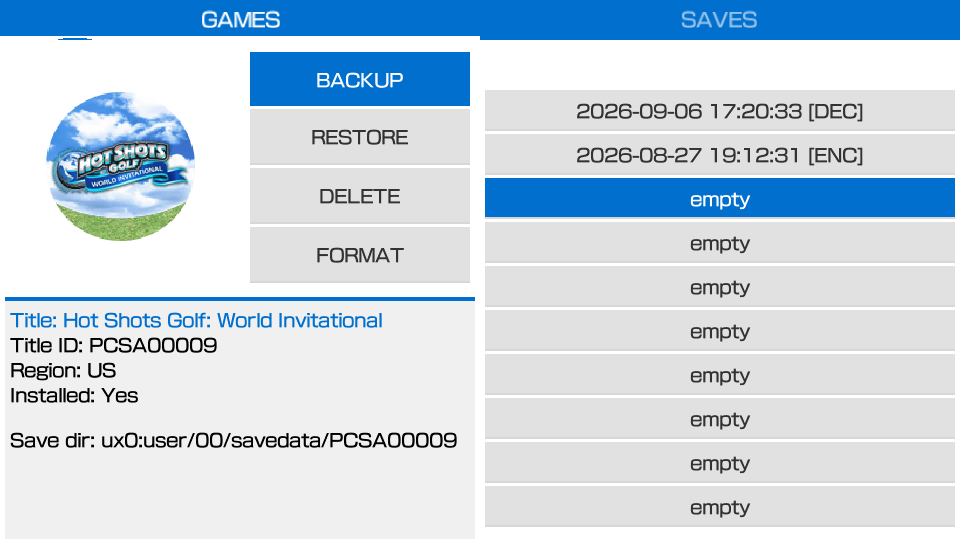
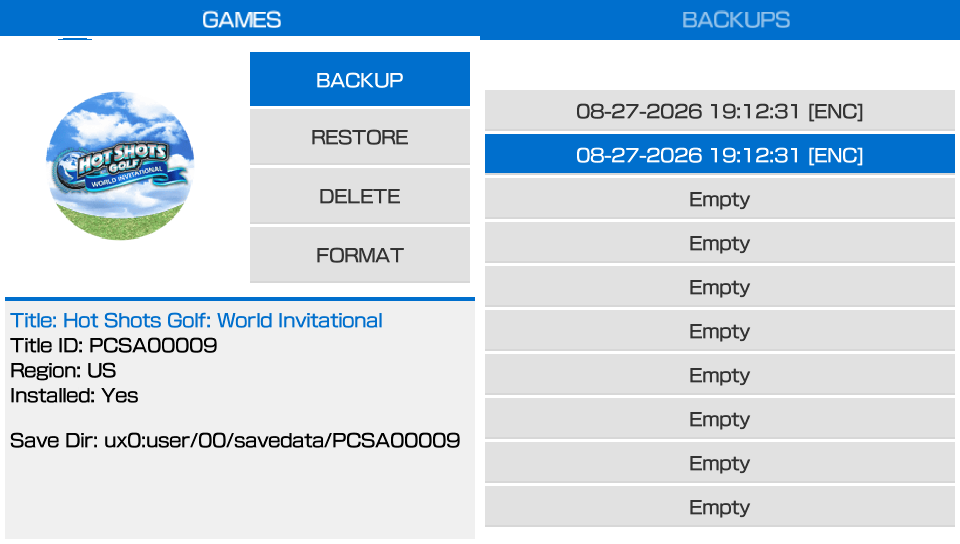
Fix IME dialog bug & README

diff --git a/src/ime_dialog.c b/src/ime_dialog.c
@@ -1,14 +1,8 @@
 // vitasdk sample (yne)
 #include <string.h>
 #include <stdlib.h>
-
-#include <psp2/types.h>
-#include <psp2/kernel/processmgr.h>
-#include <psp2/message_dialog.h>
 #include <psp2/ime_dialog.h>
-#include <psp2/display.h>
-#include <psp2/gxm.h>
-#include <psp2/kernel/sysmem.h>
+#include <vita2d.h>
 
 #define ALIGN(x, a)                 (((x) + ((a) - 1)) & ~((a) - 1))
 #define DISPLAY_WIDTH               960
@@ -16,17 +10,6 @@
 #define DISPLAY_STRIDE_IN_PIXELS    1024
 #define DISPLAY_BUFFER_COUNT        2
 #define DISPLAY_MAX_PENDING_SWAPS   1
-
-typedef struct{
-    void *data;
-    SceGxmSyncObject*sync;
-    SceGxmColorSurface surf;
-    SceUID uid;
-} displayBuffer;
-
-static unsigned int backBufferIndex = 0;
-static unsigned int frontBufferIndex = 0;
-displayBuffer dbuf[DISPLAY_BUFFER_COUNT];
 
 // VitaShell code
 static void utf16_to_utf8(const uint16_t *src, uint8_t *dst) {
@@ -90,57 +73,18 @@ static void *dram_alloc(unsigned int size, SceUID *uid){
     return mem;
 }
 
-static void gxm_init(){
-    unsigned int i;
-
-    for (i=0; i<DISPLAY_BUFFER_COUNT; ++i) {
-        dbuf[i].data = dram_alloc(4 * DISPLAY_STRIDE_IN_PIXELS*DISPLAY_HEIGHT, &dbuf[i].uid);
-
-        sceGxmColorSurfaceInit(&dbuf[i].surf, SCE_GXM_COLOR_FORMAT_A8B8G8R8,
-                                SCE_GXM_COLOR_SURFACE_LINEAR, SCE_GXM_COLOR_SURFACE_SCALE_NONE,
-                                SCE_GXM_OUTPUT_REGISTER_SIZE_32BIT, DISPLAY_WIDTH, DISPLAY_HEIGHT,
-                                DISPLAY_STRIDE_IN_PIXELS,dbuf[i].data);
-        sceGxmSyncObjectCreate(&dbuf[i].sync);
-	}
-
-    return;
-}
-
-static void gxm_swap(){
-    sceGxmPadHeartbeat(&dbuf[backBufferIndex].surf, dbuf[backBufferIndex].sync);
-    sceGxmDisplayQueueAddEntry(dbuf[frontBufferIndex].sync, dbuf[backBufferIndex].sync,
-                                &dbuf[backBufferIndex].data);
-
-    frontBufferIndex = backBufferIndex;
-    backBufferIndex = (backBufferIndex + 1) % DISPLAY_BUFFER_COUNT;
-
-    return;
-}
-
-static void gxm_term(){
-    sceKernelFreeMemBlock(dbuf[0].uid);
-    sceKernelFreeMemBlock(dbuf[1].uid);
-
-    return;
-}
-
 char *showImeDialog(const char *initialText) {
-    uint16_t initialText_utf16[SCE_IME_DIALOG_MAX_TEXT_LENGTH];
+    uint16_t initialText_utf16[SCE_IME_DIALOG_MAX_TEXT_LENGTH] = {0};
     uint16_t input[10 + 1] = {0};
     SceImeDialogParam param;
     char *ret = NULL;
-    int res;
 
-    sceCommonDialogSetConfigParam(&(SceCommonDialogConfigParam){});
-    utf8_to_utf16((uint8_t *)initialText, initialText_utf16);
-
-    gxm_init();
+    utf8_to_utf16((const uint8_t *)initialText, initialText_utf16);
 
     sceImeDialogParamInit(&param);
-
     param.supportedLanguages = SCE_IME_LANGUAGE_ENGLISH;
     param.languagesForced = SCE_TRUE;
-    param.type = SCE_IME_DIALOG_TEXTBOX_MODE_DEFAULT;
+    param.type = SCE_IME_TYPE_DEFAULT;
     param.option = 0;
     param.textBoxMode = SCE_IME_DIALOG_TEXTBOX_MODE_DEFAULT;
     param.title = u"New Title ID";
@@ -148,44 +92,26 @@ char *showImeDialog(const char *initialText) {
     param.initialText = initialText_utf16;
     param.inputTextBuffer = input;
 
-    res = sceImeDialogInit(&param);
-    if (res < 0)
+    if (sceImeDialogInit(&param) < 0)
         return NULL;
 
-    while (1) {
-        SceCommonDialogStatus status = sceImeDialogGetStatus();
-
-        memset(dbuf[backBufferIndex].data, 0xff000000, DISPLAY_HEIGHT * DISPLAY_STRIDE_IN_PIXELS * 4);
-
-        if (status == SCE_COMMON_DIALOG_STATUS_FINISHED) {
-            SceImeDialogResult result;
-
-            memset(&result, 0, sizeof(SceImeDialogResult));
-            sceImeDialogGetResult(&result);
-
-            if (result.button == SCE_IME_DIALOG_BUTTON_ENTER) {
-                uint8_t *tmp = malloc(sizeof(uint8_t) * 11);
-
-                utf16_to_utf8(input, tmp);
-                ret = (char *)tmp;
-            }
-
-            sceImeDialogTerm();
-            break;
-        }
-
-        sceCommonDialogUpdate(&(SceCommonDialogUpdateParam) {
-            {
-                NULL, dbuf[backBufferIndex].data, 0, 0,
-                DISPLAY_WIDTH, DISPLAY_HEIGHT, DISPLAY_STRIDE_IN_PIXELS
-            },
-            dbuf[backBufferIndex].sync});
-
-        gxm_swap();
-        sceDisplayWaitVblankStart();
+    while (sceImeDialogGetStatus() != SCE_COMMON_DIALOG_STATUS_FINISHED) {
+        vita2d_start_drawing();
+        vita2d_clear_screen();
+        vita2d_end_drawing();
+        vita2d_common_dialog_update();
+        vita2d_swap_buffers();
     }
 
-    gxm_term();
+    SceImeDialogResult result;
+    memset(&result, 0, sizeof(result));
+    sceImeDialogGetResult(&result);
 
+    if (result.button == SCE_IME_DIALOG_BUTTON_ENTER) {
+        ret = malloc(10 * 3 + 1);          // worst case UTF-8 size
+        if (ret) utf16_to_utf8(input, (uint8_t *)ret);
+    }
+
+    sceImeDialogTerm();
     return ret;
 }

diff --git a/src/main.c b/src/main.c
@@ -1681,6 +1681,8 @@ int main() {
     vita2d_init();
     vita2d_set_clear_color(BLACK);
 
+    sceCommonDialogSetConfigParam(&(SceCommonDialogConfigParam){});
+
     font = load_system_fonts();
     symbol_font = load_symbol_font();
 

diff --git a/src/main.h b/src/main.h
@@ -4,6 +4,7 @@
 #include <psp2/kernel/processmgr.h>
 #include <psp2/system_param.h>
 #include <psp2/rtc.h>
+#include <psp2/ime_dialog.h>
 #include <psp2/shellutil.h>
 #include <psp2/net/net.h>
 #include <psp2/net/netctl.h>

diff --git a/README.md b/README.md
@@ -17,6 +17,7 @@ See [CHANGELOG.md](CHANGELOG.md).
 - Restore encrypted and decrypted saves
 - Change savefile region
 - Select your prefered device to use as the backup device (`ux0:`, `ur0:`, `uma0:`, `imc0` or `xmc0:`)
+- Toggle FTP and transfer saves
 - Customize UI (choose between Dark/Light Mode, and pick from different accent colors)
 
 ## Controls
